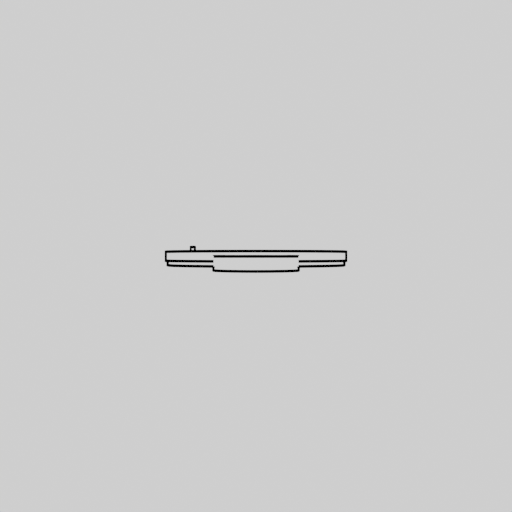
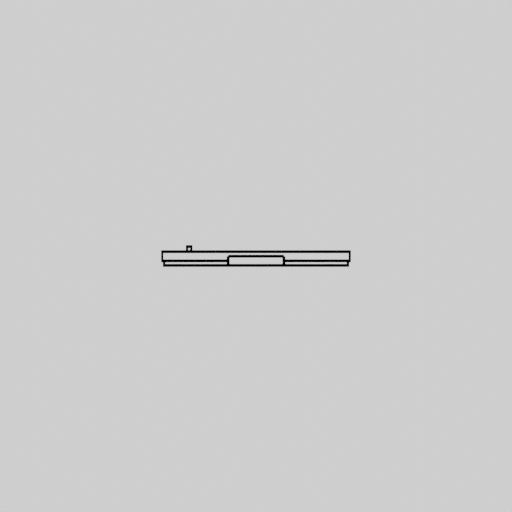
set up orthographic camera for 3-view rdring.

Changed region(s): [[0.3125, 0.4688, 0.6875, 0.5312]]

diff --git a/blender.py b/blender.py
@@ -718,6 +718,7 @@ def render_object(
     object_file: str,
     output_dir: str,
     only_northern_hemisphere: bool,
+    camera_type: str,
     three_views: bool,
     num_renders: int,
     num_trials: int,
@@ -736,6 +737,7 @@ def render_object(
             are in the northern hemisphere. This is useful for rendering objects that
             are photogrammetrically scanned, as the bottom of the object often has
             holes.
+        camera_type (str): Type of camera to use. Must be one of "PERSP", "ORTHO".
         three_views (bool): Whether to render the object from 3 views (front, side, and top). If true, num_renders and num_trials are ignored.
         num_renders (int): Number of renders to save of the object.
         num_trials (int): Number of trials to try rendering num_renders images.
@@ -889,6 +891,13 @@ if __name__ == "__main__":
         default=False,
     )
     parser.add_argument(
+        "--camera_type",
+        type=str,
+        default="PERSP",
+        choices=["PERSP", "ORTHO"],
+        help="Type of camera to use.",
+    ),
+    parser.add_argument(
         "--three_views",
         action="store_true",
         help="Only render the northern hemisphere of the object.",
@@ -909,7 +918,7 @@ if __name__ == "__main__":
     parser.add_argument(
         "--freestyle",
         action="store_true",
-        default=False,
+        default=True,
         help="Render the freestyle lines.",
     )
     parser.add_argument(
@@ -954,6 +963,16 @@ if __name__ == "__main__":
         "cycles"
     ].preferences.compute_device_type = "CUDA"  # or "OPENCL"
 
+    # set camera type
+    if args.camera_type == "PERSP":
+        bpy.data.cameras["Camera"].type = "PERSP"
+    elif args.camera_type == "ORTHO":
+        bpy.data.cameras["Camera"].type = "ORTHO"
+        # set scale to 1
+        bpy.data.cameras["Camera"].ortho_scale = 1.5
+    else:
+        raise ValueError(f"Unsupported camera type: {args.camera_type}")
+
     if args.freestyle:
         # set freestyle
         render.use_freestyle = True
@@ -964,7 +983,7 @@ if __name__ == "__main__":
         linesets.select_external_contour = True
         linesets.select_material_boundary = True
         linesets.select_ridge_valley = False
-        linesets.select_silhouette = False
+        linesets.select_silhouette = True
         linesets.select_suggestive_contour = False
         # only output the freestyle lines
         context.view_layer.use_solid = False
@@ -978,6 +997,7 @@ if __name__ == "__main__":
         num_renders=args.num_renders,
         num_trials=args.num_trials,
         only_northern_hemisphere=args.only_northern_hemisphere,
+        camera_type=args.camera_type,
         three_views=args.three_views,
         output_dir=args.output_dir,
         freestyle=args.freestyle,

diff --git a/run_render.py b/run_render.py
@@ -8,9 +8,9 @@ import subprocess
 
 
 def render_objects(
-    raw_data_path: str = "sample_data",
-    render_output_dir: str = "sample_output",
-    three_views: bool = False,
+    object_path: str = "sample_data",
+    output_dir: str = "sample_output",
+    three_views: bool = True,
     num_renders: int = 5,
     num_trials: int = 5,
     freestyle: bool = True,
@@ -29,7 +29,7 @@ def render_objects(
         args += "--only_northern_hemisphere"
 
     # get all objects in the raw data path
-    all_objects = glob.glob("*.stl", root_dir=raw_data_path, recursive=True)
+    all_objects = glob.glob("*.stl", root_dir=object_path, recursive=True)
     logger.info(f"Found {len(all_objects)} objects to render.")
 
     # set render style
@@ -40,6 +40,7 @@ def render_objects(
     args += f" --res_percentage {res_percentage}"
     if three_views:
         args += " --three_views"
+        args += f" --camera_type ORTHO"
     args += f" --num_renders {num_renders}"
     args += f" --num_trials {num_trials}"
     command = f"python blender.py {args}"
@@ -47,8 +48,8 @@ def render_objects(
     # get (input, output) paths
     io_paths = [
         (
-            os.path.join(raw_data_path, os.path.basename(obj)),
-            os.path.join(render_output_dir, os.path.basename(obj).split(".")[0]),
+            os.path.join(object_path, os.path.basename(obj)),
+            os.path.join(output_dir, os.path.basename(obj).split(".")[0]),
         )
         for obj in all_objects
     ]
@@ -57,13 +58,18 @@ def render_objects(
         for obj, output_dir in io_paths
     ]
 
-    # render all objects in parallel
-    # get cpu count
     cpu_count = os.cpu_count()
-    with Pool(processes=cpu_count) as p:
-        p.map(subprocess_cmd, commands)
+    if len(all_objects) > cpu_count:
+        # render all objects in parallel
+        # get cpu count
+        with Pool(processes=cpu_count) as p:
+            p.map(subprocess_cmd, commands)
+    else:
+        # render all objects sequentially
+        for command in commands:
+            subprocess_cmd(command)
 
-    print("Done rendering all objects.")
+    logger.info(f"Done rendering {len(all_objects)} objects.")
 
 
 def subprocess_cmd(command):
